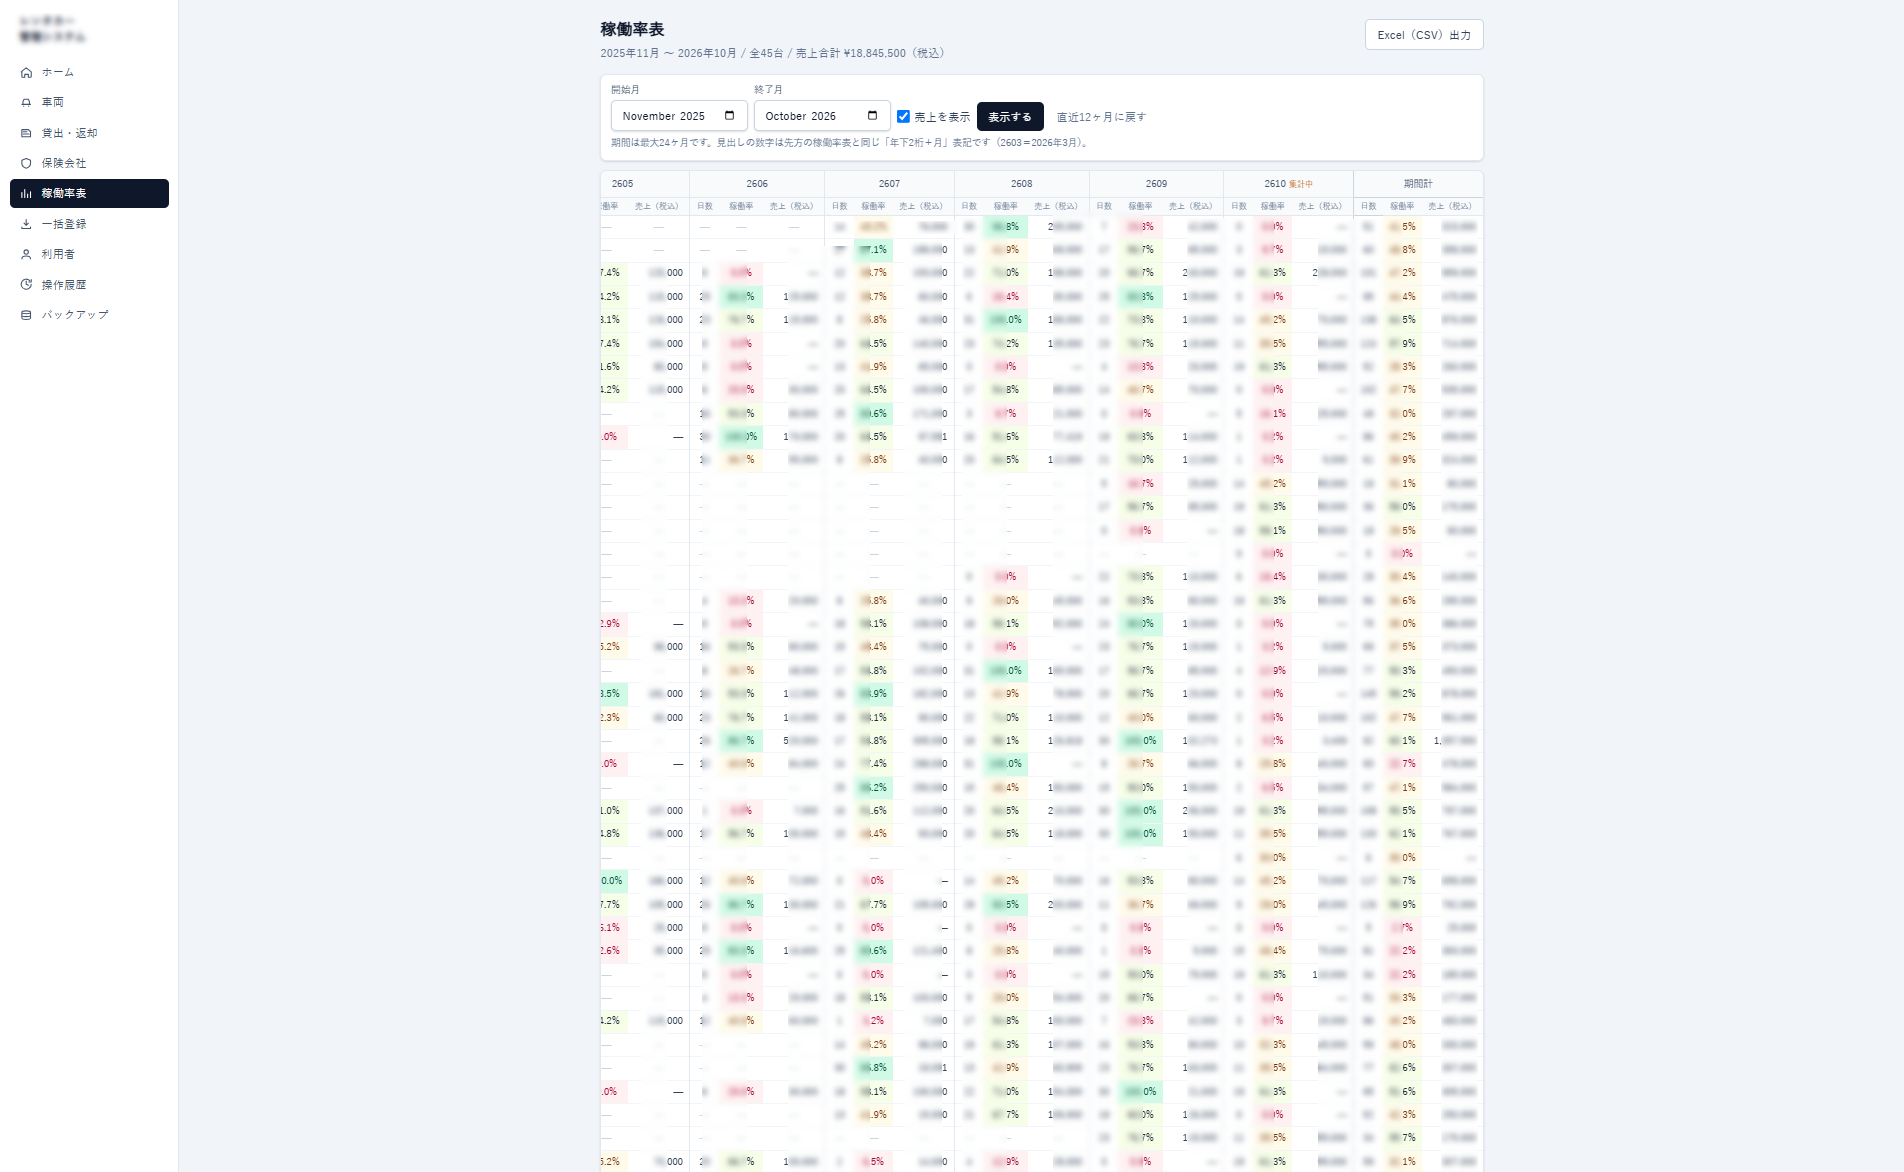
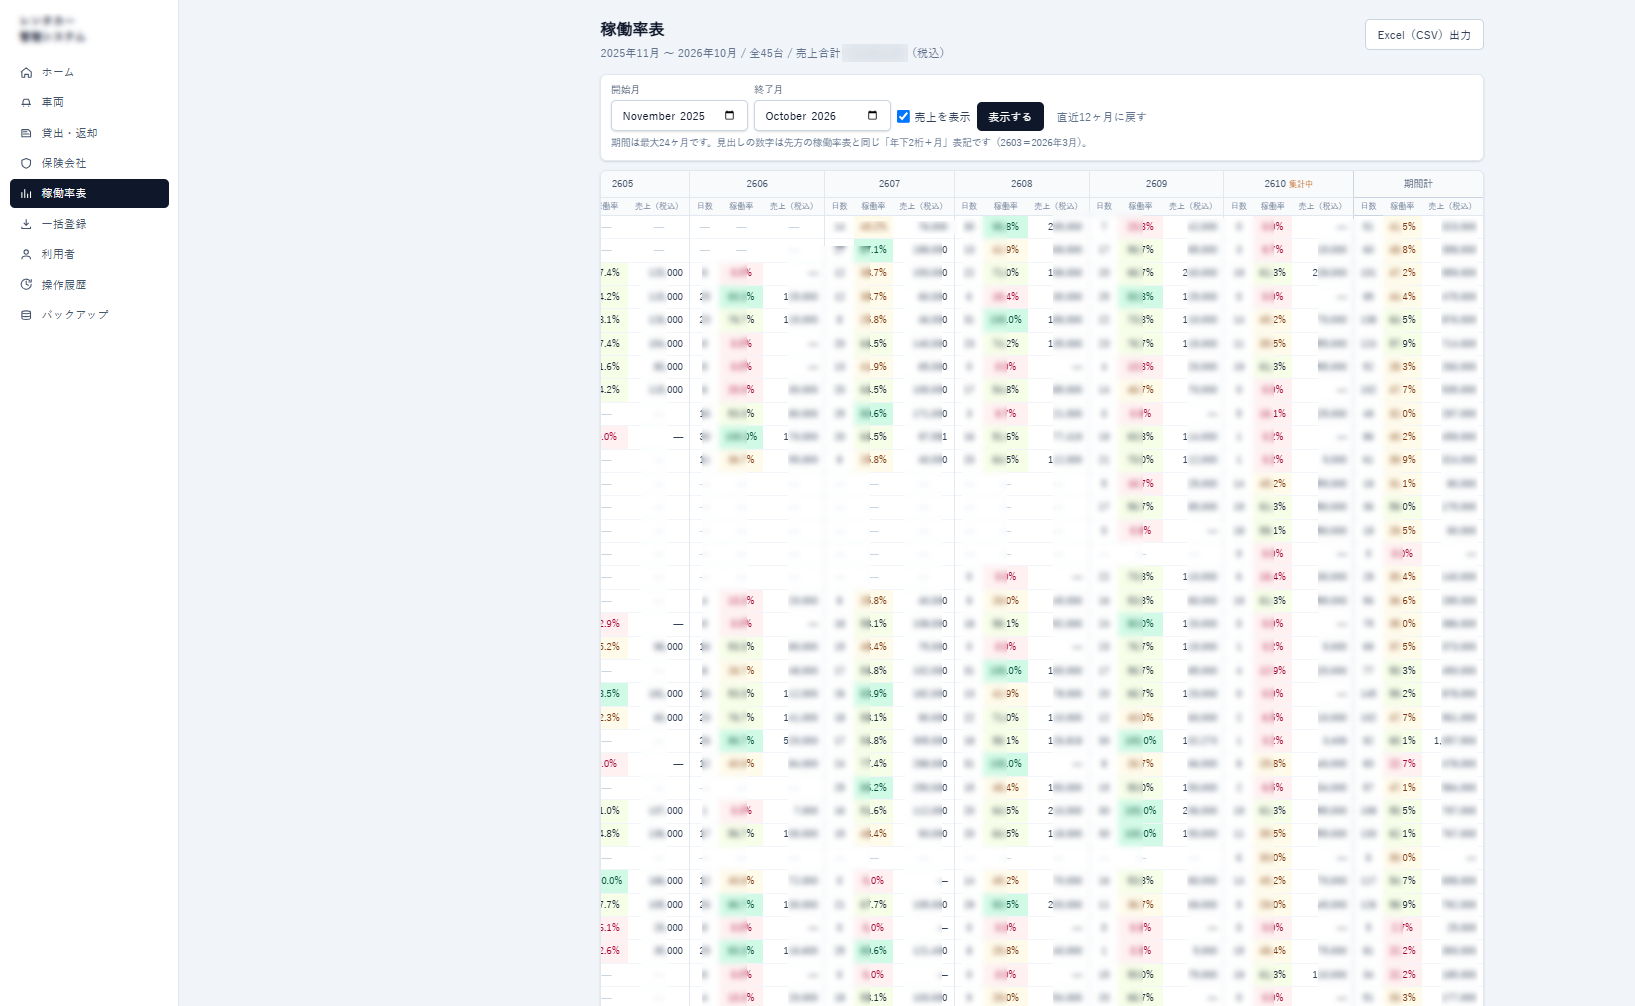
refactor: update captions for clarity in design showcase and replace images

diff --git a/src/data/design.ts b/src/data/design.ts
@@ -354,7 +354,7 @@ export const design = {
       { id: "rental-insurers", lines: ["保険会社マスタ"], caption: "RENTAL CAR SYSTEM — INSURANCE COMPANIES", image: rentalInsurers },
       { id: "rental-utilization", lines: ["稼働率表"], caption: "RENTAL CAR SYSTEM — UTILIZATION & SALES", image: rentalUtilization },
       { id: "rental-import", lines: ["一括登録"], caption: "RENTAL CAR SYSTEM — BULK IMPORT", image: rentalImport },
-      { id: "rental-users", lines: ["利用者と権限"], caption: "RENTAL CAR SYSTEM — USERS & PERMISSIONS", image: rentalUsers },
+      { id: "rental-users", lines: ["スタッフと権限"], caption: "RENTAL CAR SYSTEM — STAFF & PERMISSIONS", image: rentalUsers },
       { id: "rental-history", lines: ["操作履歴"], caption: "RENTAL CAR SYSTEM — ACTIVITY LOG", image: rentalHistory },
       { id: "rental-backup", lines: ["自動バックアップ"], caption: "RENTAL CAR SYSTEM — AUTOMATIC BACKUPS", image: rentalBackup },
       { id: "sanctuary-top", lines: ["オンライン", "ヒーリングサロン"], caption: "THE SANCTUARY — TOP PAGE", image: sanctuaryTop },
@@ -363,15 +363,15 @@ export const design = {
       { id: "sanctuary-mypage", lines: ["マイページ"], caption: "THE SANCTUARY — MY PAGE", image: sanctuaryMypage },
       { id: "sanctuary-booking-menu", lines: ["ご予約", "メニューを選ぶ"], caption: "THE SANCTUARY — BOOKING: MENU", image: sanctuaryBookingMenu },
       { id: "sanctuary-booking-datetime", lines: ["ご予約", "ヒーラーと日時"], caption: "THE SANCTUARY — BOOKING: HEALER & TIME", image: sanctuaryBookingDatetime },
-      { id: "sanctuary-booking-confirm", lines: ["ご予約", "内容の確認"], caption: "THE SANCTUARY — BOOKING: CONFIRMATION", image: sanctuaryBookingConfirm },
+      { id: "sanctuary-booking-confirm", lines: ["ご予約", "内容の確認"], caption: "THE SANCTUARY — BOOKING: REVIEW", image: sanctuaryBookingConfirm },
       { id: "sanctuary-stripe-checkout", lines: ["Stripe決済"], caption: "THE SANCTUARY — STRIPE CHECKOUT", image: sanctuaryStripeCheckout },
       { id: "sanctuary-stripe-card", lines: ["カード情報の入力"], caption: "THE SANCTUARY — CARD DETAILS", image: sanctuaryStripeCard },
       { id: "sanctuary-booking-confirmed", lines: ["ご予約の確定"], caption: "THE SANCTUARY — BOOKING CONFIRMED", image: sanctuaryBookingConfirmed },
-      { id: "sanctuary-cancel-refund", lines: ["キャンセルと", "自動返金"], caption: "THE SANCTUARY — CANCELLATION & REFUND", image: sanctuaryCancelRefund },
+      { id: "sanctuary-cancel-refund", lines: ["キャンセルと", "自動返金"], caption: "THE SANCTUARY — CANCELLATION & AUTO REFUND", image: sanctuaryCancelRefund },
       { id: "sanctuary-session-lobby", lines: ["入室前の確認"], caption: "THE SANCTUARY — SESSION LOBBY", image: sanctuarySessionLobby },
       { id: "sanctuary-session-call", lines: ["ビデオ通話と", "チャット"], caption: "THE SANCTUARY — VIDEO CALL & CHAT", image: sanctuarySessionCall },
       { id: "sanctuary-beauty-filter", lines: ["美肌フィルター"], caption: "THE SANCTUARY — BEAUTY FILTER", image: sanctuaryBeautyFilter },
-      { id: "sanctuary-healer-home", lines: ["ヒーラーの画面"], caption: "THE SANCTUARY — HEALER HOME", image: sanctuaryHealerHome },
+      { id: "sanctuary-healer-home", lines: ["ヒーラーの", "予約状況"], caption: "THE SANCTUARY — HEALER: TODAY'S SESSIONS", image: sanctuaryHealerHome },
       { id: "sanctuary-healer-karte", lines: ["会員様の", "カルテ"], caption: "THE SANCTUARY — CLIENT RECORDS", image: sanctuaryHealerKarte },
       { id: "sanctuary-admin-reservations", lines: ["予約の管理"], caption: "THE SANCTUARY — ADMIN: RESERVATIONS", image: sanctuaryAdminReservations },
       { id: "sanctuary-admin-sales", lines: ["売上の管理"], caption: "THE SANCTUARY — ADMIN: SALES", image: sanctuaryAdminSales },
